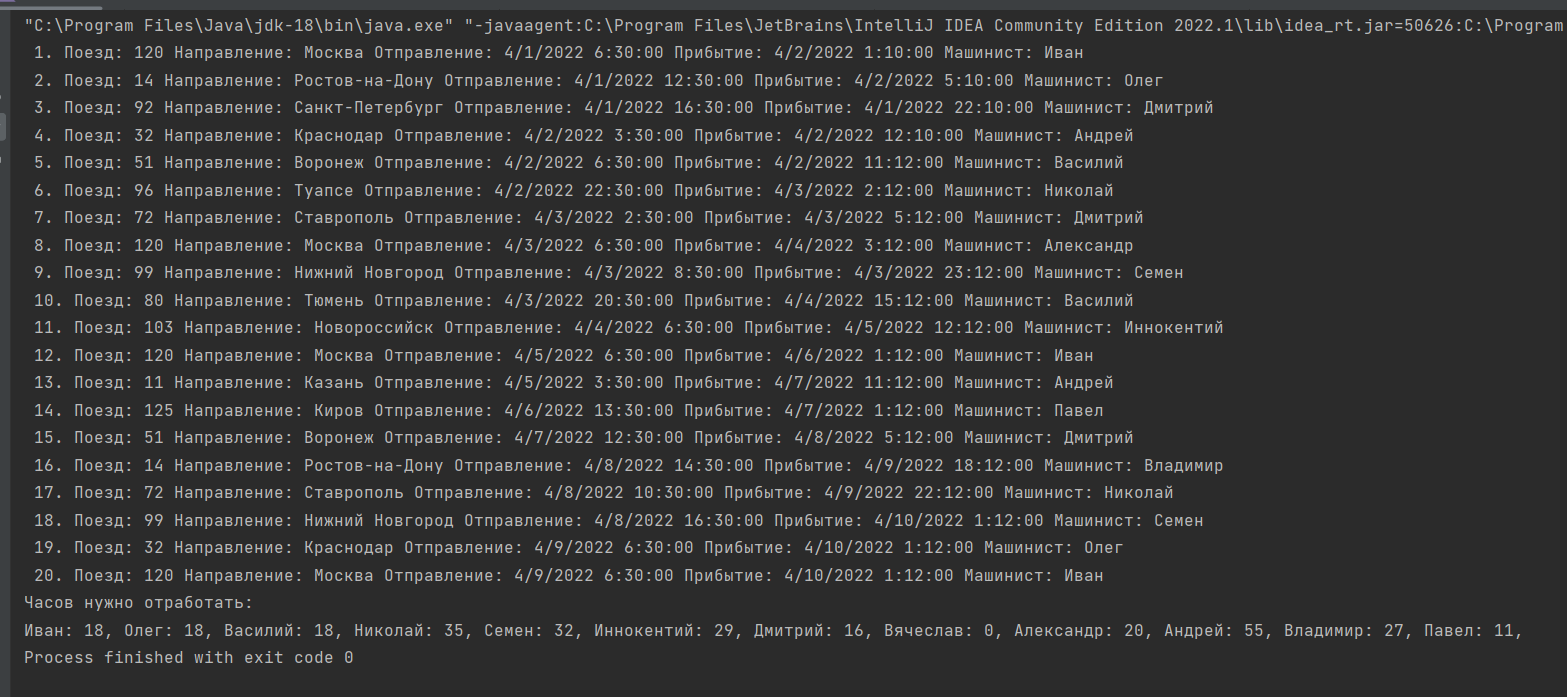
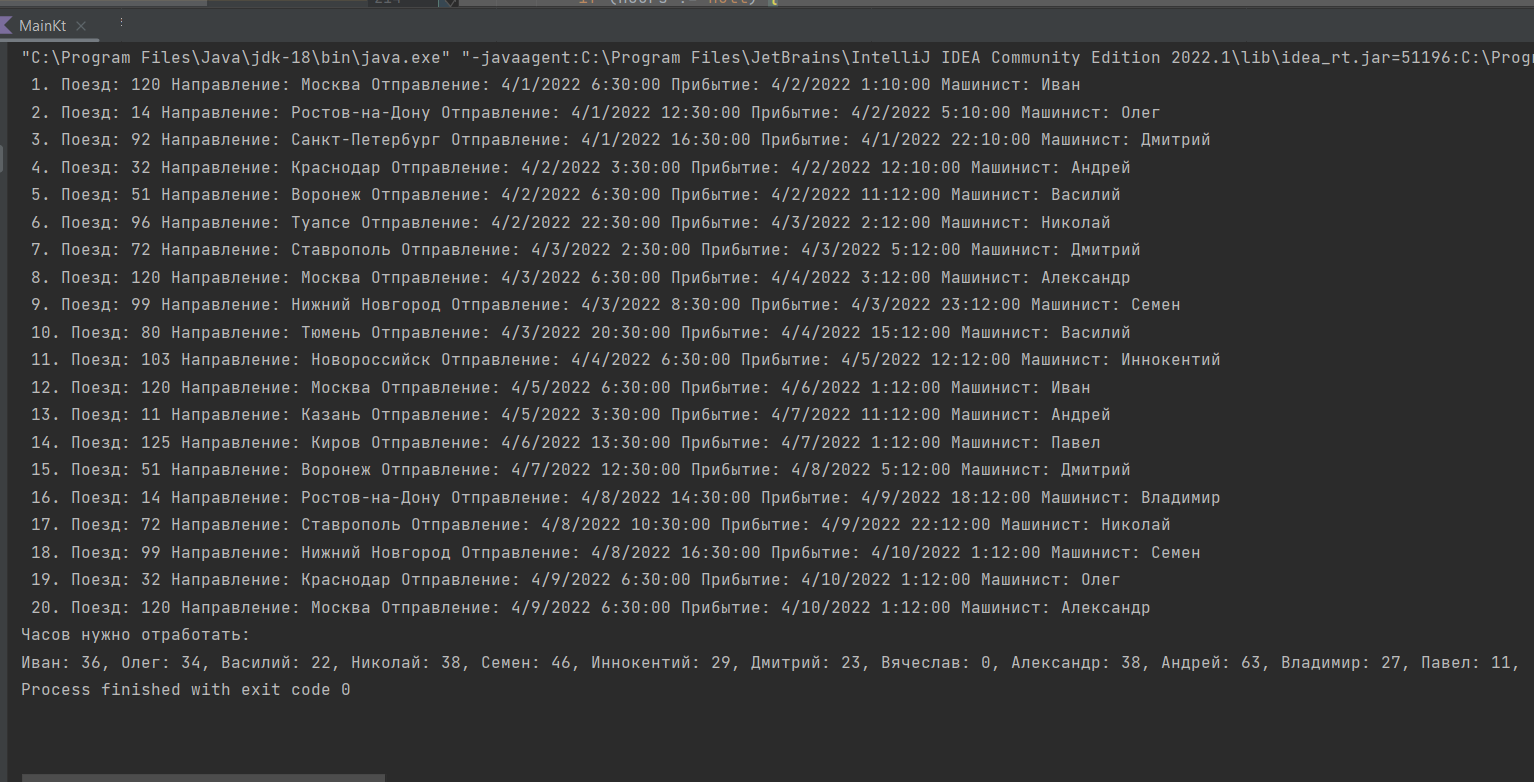
Update result screenshot

Changed region(s): [[0.0, 0.0, 1.0, 1.0], [0.9192, 0.8436, 0.9804, 0.8737], [0.6434, 0.9039, 0.7047, 0.934]]

diff --git a/src/main/kotlin/Main.kt b/src/main/kotlin/Main.kt
@@ -210,8 +210,10 @@ fun fillTrainRunListWithDrivers(trainRunList: List<TrainRun>, drivers: List<Driv
                 .filter { it.id !in getBusyOrRestDriversIdsOnTime(trainRunList, trainRun.startTime) }
                 .filter { it.accessTrainsId.contains(trainRun.trainNumber) }
                 .minByOrNull { it.totalHours }?.id ?: 0
-            drivers.find { it.id == trainRun.driverId }?.totalHours =
-                ChronoUnit.HOURS.between(trainRun.startTime, trainRun.endTime).toInt()
+            val hours = drivers.find { it.id == trainRun.driverId }?.totalHours?.plus(ChronoUnit.HOURS.between(trainRun.startTime, trainRun.endTime).toInt())
+            if (hours != null) {
+                drivers.find { it.id == trainRun.driverId }?.totalHours = hours
+            }
         }
     }
 }
